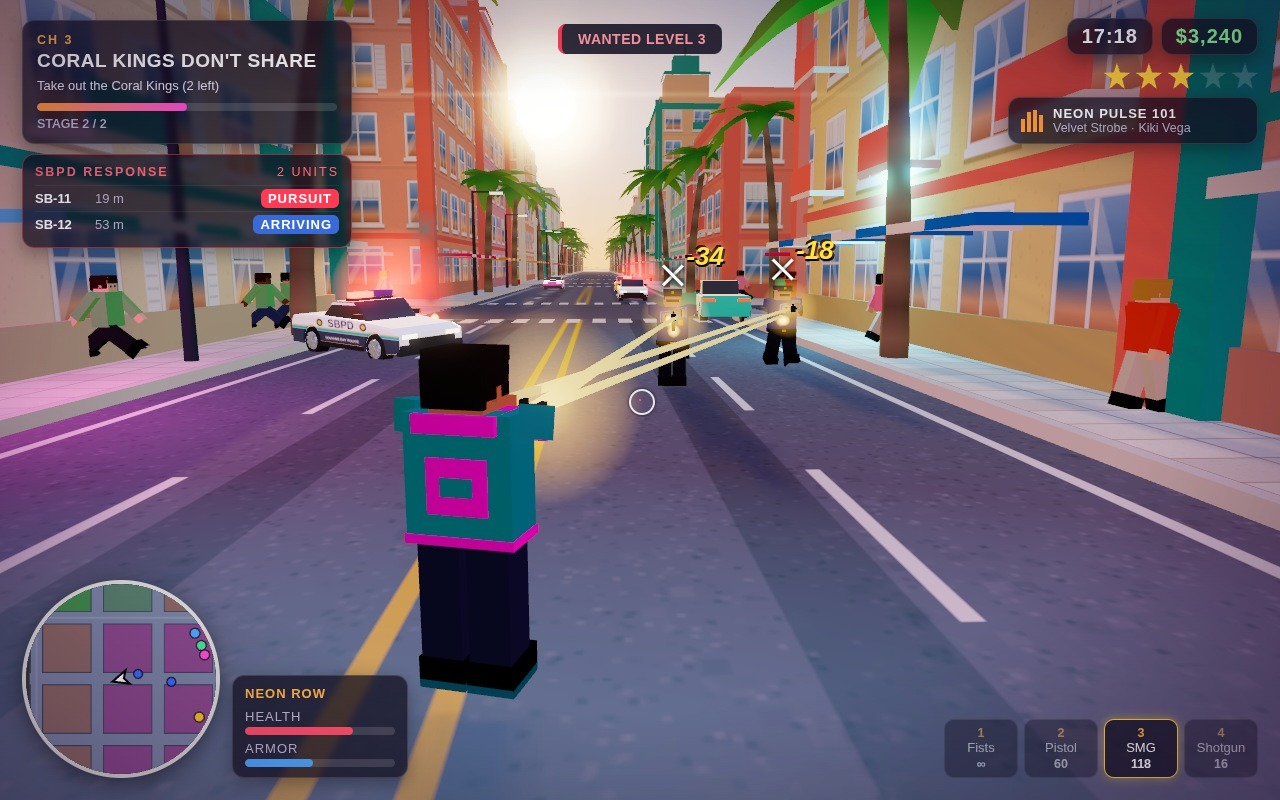
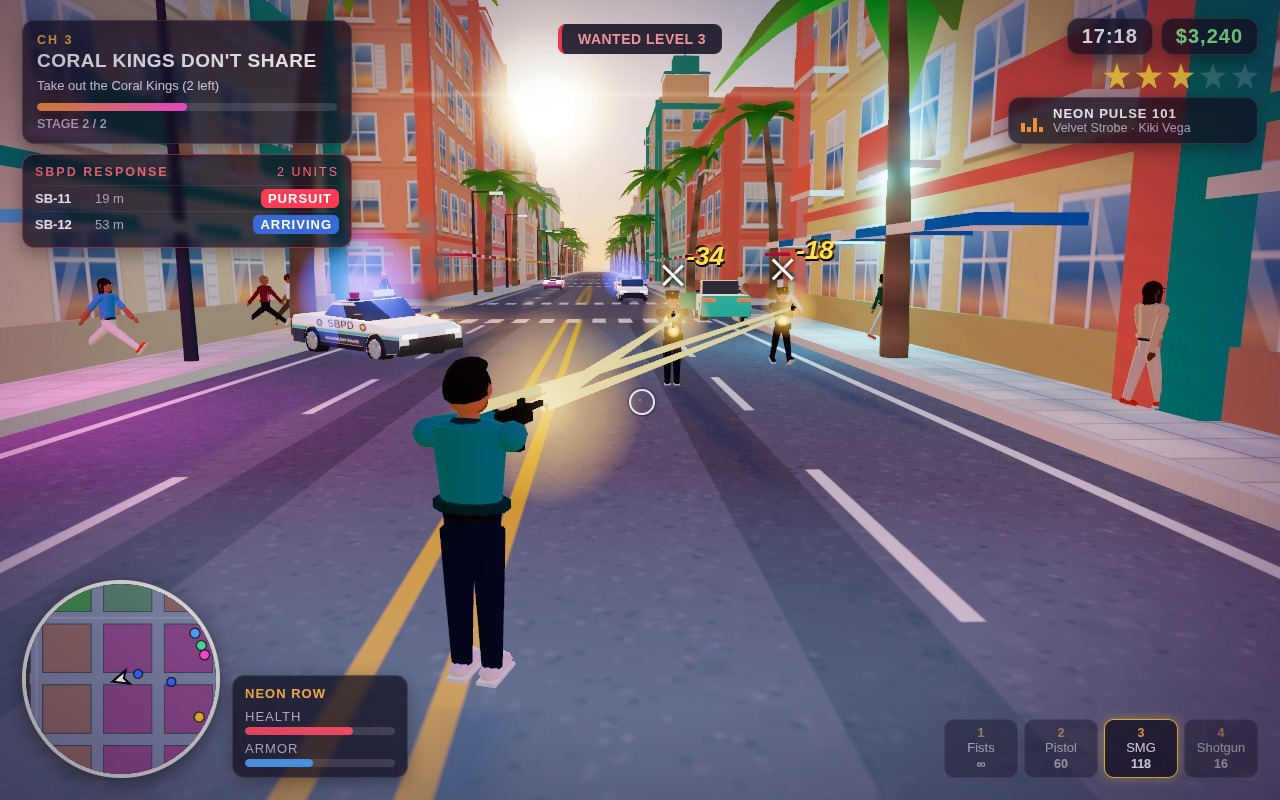
Smooth low-poly humanoids: faces, hair styles, jackets, SBPD uniforms, Nico's teal bomber

diff --git a/game/src/characters/characterModel.js b/game/src/characters/characterModel.js
@@ -1,43 +1,134 @@
-// Low-poly humanoids from boxes: merged body, animated arms and legs, optional held gun. Geometry is cached per style.
+// Smooth low-poly humanoids: merged vertex-coloured body (head, hair, face, torso, jacket), jointed arms and legs,
+// optional held gun. Each style's geometry is built once and cached. Front of the character faces +z.
 import * as THREE from 'three';
-import { newBuf, pushBox, toGeometry } from '../core/geometryUtils.js';
 
 const cache = {}; const mat = new THREE.MeshLambertMaterial({ vertexColors: true }); const gunMat = new THREE.MeshLambertMaterial({ color: 0x15151a });
 export const STYLES = {
-  nico: { shirt: 0xe9eef2, pants: 0x2b3350, skin: 0xc68a5e, hair: 0x15110e, jacket: 0x1fa7a0, trim: 0xff4fd8 },
-  cop: { shirt: 0x24428c, pants: 0x14192b, skin: 0xe0b08c, hair: 0x1d2b53, trim: 0x9fc4ff, cap: true },
-  coral: { shirt: 0xe0409a, pants: 0x30303a, skin: 0x9a6a46, hair: 0x111111 },
-  suit: { shirt: 0x15151a, pants: 0x15151a, skin: 0xd8a47c, hair: 0x2a1a10 },
+  nico: { shirt: 0xf4f4f0, pants: 0x1f2c48, skin: 0xc68a5e, hair: 0x15110e, jacket: 0x14a39a, trim: 0x0d4f4b, shoes: 0xf6f6f6, hairStyle: 'fade', stubble: true },
+  cop: { shirt: 0x1d2c5a, pants: 0x141a2e, skin: 0xe0b08c, hair: 0x2a1a10, shoes: 0x0c0c0e, cop: true, hairStyle: 'short' },
+  coral: { shirt: 0xe0409a, pants: 0x30303a, skin: 0x9a6a46, hair: 0x111111, jacket: 0x2a2a34, trim: 0xe0409a, shoes: 0xf2f2f2, hairStyle: 'bun' },
+  suit: { shirt: 0xe8e8e8, pants: 0x17171c, skin: 0xd8a47c, hair: 0x2a1a10, jacket: 0x17171c, trim: 0x17171c, shoes: 0x0a0a0a, hairStyle: 'short', tie: 0x8a1020 },
 };
-const SHIRTS = [0xf2c230, 0xe8613c, 0x4aa3df, 0x7bc67b, 0xf4f0e6, 0xb06ad8, 0xff8fa8], PANTS = [0x3b4a6b, 0x6b5a45, 0xd9d0b8, 0x2a2a30], SKINS = [0xf0c8a0, 0xd9a577, 0xb07a52, 0x7a5236, 0xe8b890];
-export const randomStyle = (rng) => ({ shirt: rng.pick(SHIRTS), pants: rng.pick(PANTS), skin: rng.pick(SKINS), hair: rng.pick([0x111111, 0x3a2414, 0xc9a050, 0x7a2a1a]) });
+const SHIRTS = [0xf2c230, 0xe8613c, 0x4aa3df, 0x7bc67b, 0xf4f0e6, 0xb06ad8, 0xff8fa8, 0x2fc4b2, 0xffffff];
+const JACKETS = [null, null, 0xd9c7a0, 0x36506e, 0x8c3a3a, 0xf0ead8, 0x3a6b4a];
+const PANTS = [0x3b4a6b, 0x6b5a45, 0xd9d0b8, 0x2a2a30, 0x5a7aa0, 0xf0ece0];
+const SKINS = [0xf0c8a0, 0xd9a577, 0xb07a52, 0x7a5236, 0xe8b890, 0x5a3a26];
+const HAIRS = [0x111111, 0x3a2414, 0xc9a050, 0x7a2a1a, 0x8a8a8a, 0x2a1a10];
+const HAIR_STYLES = ['short', 'long', 'bun', 'fade', 'curly', 'bald'];
+const SHOES = [0xf2f2f2, 0x1a1a1a, 0x8a5a30, 0xe8613c, 0x4aa3df];
+export const randomStyle = (rng) => {
+  const jacket = rng.pick(JACKETS);
+  return { shirt: rng.pick(SHIRTS), pants: rng.pick(PANTS), skin: rng.pick(SKINS), hair: rng.pick(HAIRS), hairStyle: rng.pick(HAIR_STYLES), shoes: rng.pick(SHOES), ...(jacket ? { jacket, trim: jacket } : {}) };
+};
+
+// Collects transformed primitive geometries with a flat colour each into one non-indexed buffer.
+class PartBuilder {
+  constructor() { this.p = []; this.n = []; this.c = []; }
+  add(geo, color, { x = 0, y = 0, z = 0, sx = 1, sy = 1, sz = 1, rx = 0, ry = 0, rz = 0 } = {}) {
+    const m = new THREE.Matrix4().compose(new THREE.Vector3(x, y, z), new THREE.Quaternion().setFromEuler(new THREE.Euler(rx, ry, rz)), new THREE.Vector3(sx, sy, sz));
+    const g = (geo.index ? geo.toNonIndexed() : geo.clone()).applyMatrix4(m); const col = new THREE.Color(color);
+    const P = g.attributes.position.array, N = g.attributes.normal.array;
+    for (let i = 0; i < P.length; i += 3) { this.p.push(P[i], P[i + 1], P[i + 2]); this.n.push(N[i], N[i + 1], N[i + 2]); this.c.push(col.r, col.g, col.b); }
+    g.dispose(); return this;
+  }
+  build() {
+    const g = new THREE.BufferGeometry();
+    g.setAttribute('position', new THREE.Float32BufferAttribute(this.p, 3)); g.setAttribute('normal', new THREE.Float32BufferAttribute(this.n, 3)); g.setAttribute('color', new THREE.Float32BufferAttribute(this.c, 3));
+    g.computeBoundingSphere(); return g;
+  }
+}
+const SPH = new THREE.SphereGeometry(1, 10, 8), BALL = new THREE.SphereGeometry(1, 6, 4), BOX = new THREE.BoxGeometry(1, 1, 1);
+const cyl = (rt, rb, h, seg = 9) => new THREE.CylinderGeometry(rt, rb, h, seg, 1);
+const cap = (r, len) => new THREE.CapsuleGeometry(r, len, 3, 8);
+const HAIR_CAP = new THREE.SphereGeometry(1, 10, 6, 0, Math.PI * 2, 0, Math.PI * 0.56);
+const COLLAR = new THREE.TorusGeometry(0.085, 0.028, 5, 12, Math.PI * 1.35);
+
+function headParts(b, st) {
+  const hy = 1.66, sk = st.skin;
+  b.add(cyl(0.055, 0.062, 0.14), sk, { y: 1.52 });                                   // neck
+  b.add(SPH, sk, { y: hy, sx: 0.118, sy: 0.14, sz: 0.128 });                          // skull
+  b.add(SPH, sk, { y: hy - 0.07, z: 0.025, sx: 0.088, sy: 0.07, sz: 0.095 });         // jaw
+  b.add(BALL, sk, { x: -0.117, y: hy, sx: 0.022, sy: 0.035, sz: 0.025 }).add(BALL, sk, { x: 0.117, y: hy, sx: 0.022, sy: 0.035, sz: 0.025 }); // ears
+  b.add(cyl(0.004, 0.022, 0.05, 4), new THREE.Color(sk).multiplyScalar(0.92), { y: hy - 0.015, z: 0.128, rx: 0.25 }); // nose
+  for (const sx of [-1, 1]) {
+    b.add(BALL, 0xf4f0ea, { x: sx * 0.045, y: hy + 0.018, z: 0.108, sx: 0.022, sy: 0.015, sz: 0.012 }); // eye white
+    b.add(BALL, 0x18110c, { x: sx * 0.045, y: hy + 0.018, z: 0.118, sx: 0.011, sy: 0.012, sz: 0.006 }); // iris
+    b.add(BOX, st.cop ? 0x2a1a10 : st.hair, { x: sx * 0.046, y: hy + 0.048, z: 0.118, sx: 0.048, sy: 0.011, sz: 0.012, rz: sx * -0.12 }); // brow
+  }
+  b.add(BOX, new THREE.Color(sk).multiplyScalar(0.7), { y: hy - 0.07, z: 0.113, sx: 0.045, sy: 0.009, sz: 0.01 }); // mouth
+  if (st.stubble) b.add(SPH, new THREE.Color(sk).lerp(new THREE.Color(st.hair), 0.45), { y: hy - 0.08, z: 0.03, sx: 0.09, sy: 0.064, sz: 0.098 });
+  const h = st.hair, hs = st.cop ? 'short' : st.hairStyle || 'short';
+  if (hs !== 'bald') b.add(HAIR_CAP, h, { y: hy + 0.005, z: -0.008, sx: 0.126, sy: hs === 'curly' ? 0.17 : 0.152, sz: 0.138, rx: -0.32 });
+  if (hs === 'fade') b.add(SPH, h, { y: hy + 0.11, z: 0.02, sx: 0.1, sy: 0.05, sz: 0.11, rx: -0.2 });          // swept top
+  if (hs === 'long') { b.add(cap(0.11, 0.16), h, { y: hy - 0.08, z: -0.05, sz: 0.55 }); b.add(cap(0.03, 0.14), h, { x: -0.11, y: hy - 0.06, z: 0.02 }).add(cap(0.03, 0.14), h, { x: 0.11, y: hy - 0.06, z: 0.02 }); }
+  if (hs === 'bun') b.add(SPH, h, { y: hy + 0.12, z: -0.08, sx: 0.06, sy: 0.055, sz: 0.06 });
+  if (hs === 'curly') for (let i = 0; i < 7; i++) b.add(BALL, h, { x: Math.cos(i * 0.9) * 0.1, y: hy + 0.1 + (i % 2) * 0.03, z: Math.sin(i * 0.9) * 0.09 - 0.02, sx: 0.05, sy: 0.05, sz: 0.05 });
+  if (st.cop) { // patrol cap: crown, band, visor, badge
+    b.add(cyl(0.142, 0.128, 0.07, 12), 0x16203f, { y: hy + 0.135, z: -0.005, rx: -0.08 });
+    b.add(cyl(0.13, 0.13, 0.035, 12), 0x0b0b10, { y: hy + 0.09 });
+    b.add(cyl(0.12, 0.12, 0.012, 12, 1), 0x0b0b10, { y: hy + 0.085, z: 0.09, sz: 0.65, rx: 0.25 });
+    b.add(BOX, 0xf2c230, { y: hy + 0.13, z: 0.135, sx: 0.035, sy: 0.04, sz: 0.01 });
+  }
+}
+
+function torsoParts(b, st) {
+  const jk = st.jacket ?? st.shirt, open = !!st.jacket;
+  b.add(cyl(0.165, 0.15, 0.2, 10), st.pants, { y: 0.9, sz: 0.68 });                                  // hips
+  b.add(cyl(0.16, 0.165, 0.05, 10), st.cop ? 0x0c0c0e : 0x2a2018, { y: 1.0, sz: 0.7 });             // belt
+  b.add(cyl(0.215, 0.165, 0.46, 10), jk, { y: 1.24, sz: 0.62 });                                    // torso, tapered to waist
+  b.add(SPH, jk, { y: 1.44, sx: 0.215, sy: 0.07, sz: 0.135 });                                       // shoulder line
+  for (const sx of [-1, 1]) b.add(SPH, jk, { x: sx * 0.235, y: 1.415, sx: 0.085, sy: 0.08, sz: 0.09 }); // deltoids
+  if (open) { // open jacket front showing the shirt, lapels and ribbed hem
+    b.add(BOX, st.shirt, { y: 1.22, z: 0.105, sx: 0.12, sy: 0.4, sz: 0.03, rx: -0.06 });
+    for (const sx of [-1, 1]) b.add(BOX, st.trim ?? jk, { x: sx * 0.07, y: 1.32, z: 0.11, sx: 0.03, sy: 0.22, sz: 0.03, rz: sx * 0.32, rx: -0.08 });
+    b.add(cyl(0.218, 0.218, 0.05, 10), st.trim ?? jk, { y: 1.04, sz: 0.64 });
+    if (st.tie) b.add(BOX, st.tie, { y: 1.26, z: 0.122, sx: 0.035, sy: 0.3, sz: 0.012, rx: -0.06 });
+  }
+  b.add(COLLAR, open ? (st.trim ?? jk) : st.shirt, { y: 1.47, z: 0.01, rx: Math.PI / 2 + 0.25, rz: Math.PI * 1.17 });
+  if (st.cop) {
+    b.add(BOX, 0xf2c230, { x: -0.1, y: 1.33, z: 0.125, sx: 0.045, sy: 0.055, sz: 0.012 });           // badge
+    b.add(BOX, 0xd8dde8, { x: 0.1, y: 1.34, z: 0.122, sx: 0.06, sy: 0.015, sz: 0.01 });              // name bar
+    b.add(BOX, 0x0c0c0e, { x: 0.12, y: 1.4, z: 0.11, sx: 0.04, sy: 0.07, sz: 0.04 });               // shoulder radio
+    b.add(BOX, 0x0c0c0e, { x: 0.18, y: 0.94, z: 0.02, sx: 0.06, sy: 0.14, sz: 0.11 });               // holster
+    for (const sx of [-1, 1]) b.add(BOX, 0x9fc4ff, { x: sx * 0.2, y: 1.42, z: 0, sx: 0.01, sy: 0.05, sz: 0.06, rz: sx * 0.5 }); // shoulder patches
+  }
+}
+function armParts(b, st) {
+  const jk = st.jacket ?? st.shirt, sleeve = st.jacket || st.cop ? jk : st.shirt, bare = !st.jacket && !st.cop;
+  b.add(cap(0.064, 0.2), sleeve, { y: -0.16 });
+  b.add(cap(0.054, 0.2), bare ? st.skin : sleeve, { y: -0.42 });
+  if (!bare) b.add(cyl(0.06, 0.06, 0.045, 8), st.trim ?? jk, { y: -0.55 });
+  b.add(SPH, st.skin, { y: -0.63, z: 0.01, sx: 0.045, sy: 0.07, sz: 0.035 });                        // hand
+  b.add(cap(0.016, 0.04), st.skin, { x: 0.035, y: -0.6, z: 0.03, rz: 0.5 });                         // thumb
+}
+function legParts(b, st) {
+  b.add(cyl(0.095, 0.075, 0.44, 9), st.pants, { y: -0.22 });
+  b.add(cyl(0.075, 0.058, 0.36, 9), st.pants, { y: -0.6 });
+  b.add(cap(0.058, 0.16), st.shoes ?? 0x111114, { y: -0.8, z: 0.045, rx: Math.PI / 2, sy: 1, sx: 1.05, sz: 0.75 }); // shoe
+  b.add(BOX, 0xe8e8e8, { y: -0.845, z: 0.045, sx: 0.115, sy: 0.02, sz: 0.27 });                     // sole
+}
 function parts(st) {
   const k = JSON.stringify(st); if (cache[k]) return cache[k];
-  const body = newBuf(), arm = newBuf(), leg = newBuf(), jk = st.jacket ?? st.shirt, tr = st.trim ?? st.shirt;
-  pushBox(body, 0, 0.85, 0, 0.6, 0.7, 0.32, jk); pushBox(body, 0, 1.45, -0.02, 0.46, 0.1, 0.36, st.jacket ? tr : st.shirt);
-  if (st.jacket) { pushBox(body, 0, 0.9, 0.165, 0.16, 0.5, 0.02, st.shirt); pushBox(body, 0, 0.85, 0, 0.62, 0.05, 0.34, tr); pushBox(body, 0, 1.02, -0.165, 0.34, 0.3, 0.02, tr); pushBox(body, 0, 1.12, -0.172, 0.18, 0.1, 0.02, st.jacket); }
-  if (st.cap) { pushBox(body, 0, 0.82, 0, 0.62, 0.08, 0.34, 0x0e0e12); pushBox(body, 0, 0.83, 0.175, 0.08, 0.05, 0.01, 0xf2c230); pushBox(body, 0.15, 1.2, 0.165, 0.09, 0.1, 0.02, 0xf2c230); pushBox(body, -0.2, 1.22, 0.165, 0.06, 0.1, 0.04, 0x111111); pushBox(body, 0.3, 0.55, 0.02, 0.06, 0.3, 0.14, 0x111111); pushBox(body, 0, 0.9, -0.165, 0.34, 0.16, 0.02, 0x9fc4ff); }
-  pushBox(body, 0, 1.5, 0, 0.13, 0.08, 0.13, st.skin); pushBox(body, 0, 1.55, 0, 0.3, 0.3, 0.3, st.skin); pushBox(body, -0.16, 1.6, 0, 0.03, 0.08, 0.06, st.skin); pushBox(body, 0.16, 1.6, 0, 0.03, 0.08, 0.06, st.skin);
-  if (st.cap) { pushBox(body, 0, 1.78, 0, 0.35, 0.1, 0.35, st.hair); pushBox(body, 0, 1.75, 0.2, 0.33, 0.03, 0.12, 0x0a0a0a); pushBox(body, 0, 1.8, 0.18, 0.05, 0.05, 0.02, 0xf2c230); pushBox(body, 0, 1.64, 0.151, 0.24, 0.05, 0.01, 0x050505); pushBox(body, 0, 1.6, -0.17, 0.32, 0.15, 0.05, 0x20180f); }
-  else { pushBox(body, 0, 1.8, -0.01, 0.34, 0.08, 0.34, st.hair); pushBox(body, 0, 1.58, -0.17, 0.34, 0.25, 0.05, st.hair); pushBox(body, -0.16, 1.62, -0.02, 0.03, 0.2, 0.3, st.hair); pushBox(body, 0.16, 1.62, -0.02, 0.03, 0.2, 0.3, st.hair); pushBox(body, 0, 1.72, 0.15, 0.32, 0.08, 0.04, st.hair); pushBox(body, -0.07, 1.64, 0.151, 0.05, 0.04, 0.01, 0x111111); pushBox(body, 0.07, 1.64, 0.151, 0.05, 0.04, 0.01, 0x111111); }
-  pushBox(arm, 0, -0.55, 0, 0.18, 0.55, 0.18, jk); pushBox(arm, 0, -0.6, 0, 0.195, 0.05, 0.195, tr); pushBox(arm, 0, -0.75, 0, 0.15, 0.15, 0.15, st.skin);
-  pushBox(leg, 0, -0.85, 0, 0.24, 0.85, 0.26, st.pants); pushBox(leg, 0, -0.85, 0.03, 0.27, 0.2, 0.34, 0x111114);
-  return (cache[k] = { body: toGeometry(body), arm: toGeometry(arm), leg: toGeometry(leg) });
+  const body = new PartBuilder(), arm = new PartBuilder(), leg = new PartBuilder();
+  headParts(body, st); torsoParts(body, st); armParts(arm, st); legParts(leg, st);
+  return (cache[k] = { body: body.build(), arm: arm.build(), leg: leg.build() });
 }
 const dark = new THREE.MeshLambertMaterial({ color: 0x22232a });
 function buildGun() {
   const g = new THREE.Group(), add = (w, h, d, x, y, z, m = gunMat) => { const b = new THREE.Mesh(new THREE.BoxGeometry(w, h, d), m); b.position.set(x, y, z); g.add(b); };
-  add(0.09, 0.13, 0.42, 0, 0, 0); add(0.04, 0.04, 0.24, 0, 0.02, 0.32, dark); add(0.06, 0.2, 0.08, 0, -0.15, 0.06, dark); add(0.05, 0.09, 0.2, 0, -0.01, -0.3, dark); add(0.03, 0.04, 0.08, 0, 0.09, 0.12, dark); add(0.06, 0.1, 0.06, 0, -0.1, -0.1, dark);
+  add(0.07, 0.11, 0.38, 0, 0, 0); add(0.035, 0.035, 0.22, 0, 0.02, 0.29, dark); add(0.05, 0.17, 0.07, 0, -0.13, 0.05, dark); add(0.045, 0.08, 0.18, 0, -0.01, -0.27, dark); add(0.025, 0.035, 0.07, 0, 0.08, 0.1, dark); add(0.05, 0.09, 0.05, 0, -0.09, -0.09, dark);
   return g;
 }
 export function buildCharacter(style) {
   const g = parts(style), root = new THREE.Group(), mk = (geo, x, y) => { const m = new THREE.Mesh(geo, mat); m.position.set(x, y, 0); m.castShadow = true; root.add(m); return m; };
-  const body = mk(g.body, 0, 0), armL = mk(g.arm, -0.38, 1.5), armR = mk(g.arm, 0.38, 1.5), legL = mk(g.leg, -0.14, 0.85), legR = mk(g.leg, 0.14, 0.85);
-  const gun = buildGun(); gun.position.set(0, 1.38, 0.62); gun.visible = false; root.add(gun);
+  const body = mk(g.body, 0, 0), armL = mk(g.arm, -0.27, 1.43), armR = mk(g.arm, 0.27, 1.43), legL = mk(g.leg, -0.09, 0.9), legR = mk(g.leg, 0.09, 0.9);
+  armL.scale.x = -1; // mirror so the thumb faces forward on both hands
+  const gun = buildGun(); gun.position.set(0, 1.4, 0.6); gun.visible = false; root.add(gun);
   root.userData = { body, armL, armR, legL, legR, gun }; return root;
 }
 export function animateWalk(ch, phase, amt, aim) {
-  const u = ch.userData, s = Math.sin(phase) * amt;
-  u.legL.rotation.x = s; u.legR.rotation.x = -s; u.armL.rotation.x = aim ? -1.35 : -s * 0.8; u.armR.rotation.x = aim ? -1.5 : s * 0.8; u.armL.rotation.z = aim ? 0.42 : 0; u.armR.rotation.z = aim ? -0.42 : 0;
+  const u = ch.userData, s = Math.sin(phase) * amt, bob = Math.abs(Math.cos(phase)) * amt * 0.04;
+  u.legL.rotation.x = s; u.legR.rotation.x = -s; u.body.position.y = bob; u.body.rotation.y = s * 0.12;
+  u.armL.rotation.x = aim ? -1.4 : -s * 0.8; u.armR.rotation.x = aim ? -1.52 : s * 0.8; u.armL.rotation.z = aim ? 0.5 : 0.06; u.armR.rotation.z = aim ? -0.32 : -0.06;
 }
 export function setGun(ch, kind) { const g = ch.userData.gun; g.visible = !!kind; if (kind) g.scale.set(1, 1, kind === 'shotgun' ? 1.5 : kind === 'smg' ? 1.1 : 0.7); }
